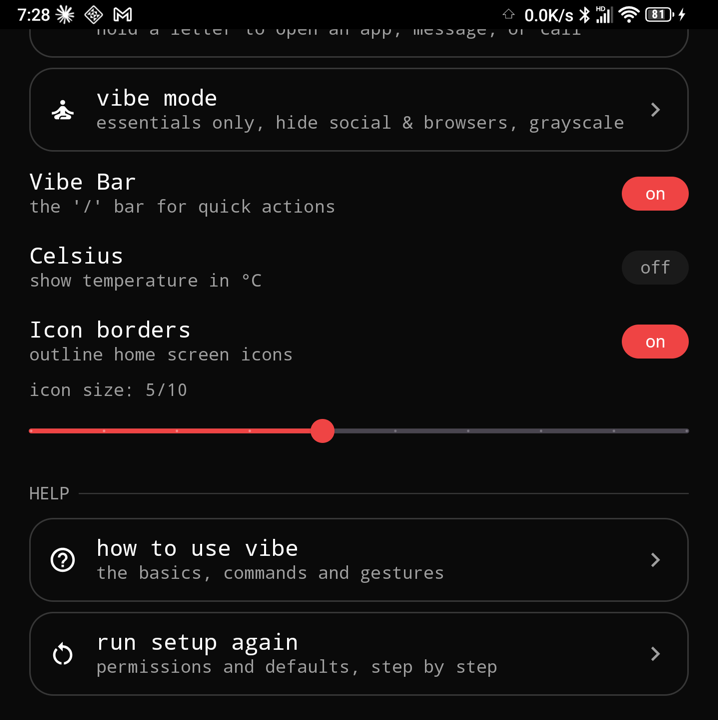
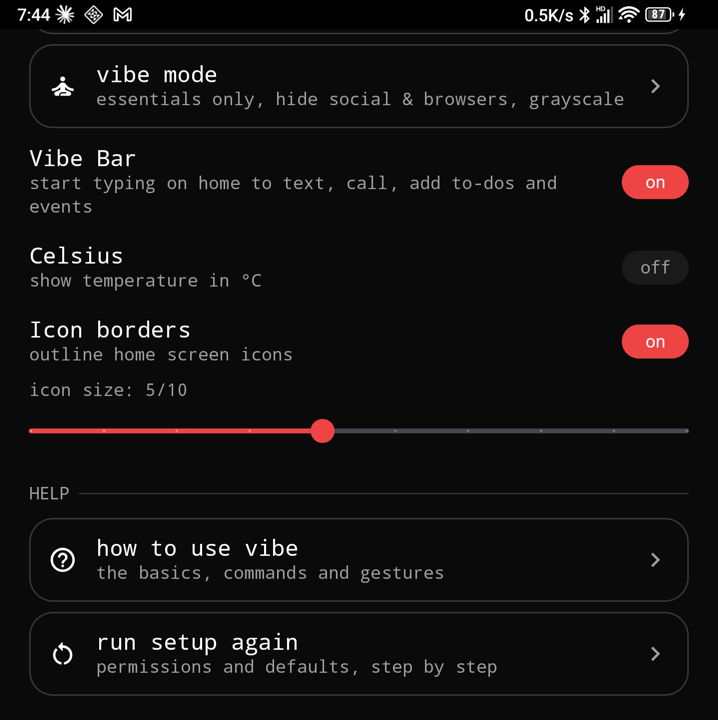
Let Back leave the tour, fix setup title under the dots, update Vibe Bar subtitle
- Back on the first card of the tour, or of setup run again from
  Settings, now closes it. First-run setup still can't be backed out of.
- With the keyboard open, a step's title no longer scrolls up against
  the step dots.
- The Vibe Bar switch in Settings no longer mentions the old '/' bar.
- Retook the Settings screenshot to show the new subtitle.

diff --git a/app/src/main/java/com/vibelauncher/app/ui/setup/SetupScreen.kt b/app/src/main/java/com/vibelauncher/app/ui/setup/SetupScreen.kt
@@ -43,6 +43,7 @@ import androidx.compose.runtime.rememberUpdatedState
 import androidx.compose.ui.Alignment
 import androidx.compose.ui.Modifier
 import androidx.compose.ui.draw.alpha
+import androidx.compose.ui.draw.clipToBounds
 import androidx.compose.ui.platform.LocalLifecycleOwner
 import androidx.compose.ui.text.TextStyle
 import androidx.compose.ui.text.font.FontWeight
@@ -79,9 +80,8 @@ fun SetupScreen(viewModel: SetupViewModel, onFinished: () -> Unit) {
         onDispose { lifecycleOwner.lifecycle.removeObserver(observer) }
     }
 
-    // Back steps backwards through setup; on the first step there's nowhere to go, and
-    // leaving setup that way would just bring it back on the next launch.
-    BackHandler { viewModel.back() }
+    // Back steps backwards; on the first step it leaves, unless this is first-run setup.
+    BackHandler { viewModel.back(onLeave = onFinished) }
 
     MaterialTheme(typography = settingsTypography()) {
         Column(
@@ -99,7 +99,9 @@ fun SetupScreen(viewModel: SetupViewModel, onFinished: () -> Unit) {
                     (slideInHorizontally { if (forward) it / 3 else -it / 3 } + fadeIn()) togetherWith
                         (slideOutHorizontally { if (forward) -it / 3 else it / 3 } + fadeOut())
                 },
-                modifier = Modifier.weight(1f),
+                // With the keyboard open a step scrolls up to keep its text field in view; the
+                // gap keeps the edge its title scrolls under clear of the step dots.
+                modifier = Modifier.weight(1f).padding(top = 16.dp).clipToBounds(),
                 label = "setup step"
             ) { index ->
                 val step = uiState.steps[index]
@@ -131,7 +133,7 @@ fun SetupScreen(viewModel: SetupViewModel, onFinished: () -> Unit) {
             SetupFooter(
                 showBack = !uiState.isFirst,
                 nextLabel = nextLabelFor(uiState),
-                onBack = { viewModel.back() },
+                onBack = { viewModel.back(onLeave = onFinished) },
                 onNext = {
                     if (uiState.step == SetupStep.DONE) viewModel.finish(onFinished) else viewModel.next()
                 }
@@ -219,7 +221,7 @@ internal fun StepLayout(label: String, title: String, content: @Composable Colum
         modifier = Modifier
             .fillMaxSize()
             .verticalScroll(rememberScrollState())
-            .padding(top = 28.dp),
+            .padding(top = 12.dp),
         verticalArrangement = Arrangement.spacedBy(14.dp)
     ) {
         Text(label, color = LocalAccentColor.current, style = MaterialTheme.typography.labelSmall)

diff --git a/app/src/main/java/com/vibelauncher/app/ui/setup/SetupViewModel.kt b/app/src/main/java/com/vibelauncher/app/ui/setup/SetupViewModel.kt
@@ -17,6 +17,7 @@ import kotlinx.coroutines.flow.MutableStateFlow
 import kotlinx.coroutines.flow.SharingStarted
 import kotlinx.coroutines.flow.StateFlow
 import kotlinx.coroutines.flow.combine
+import kotlinx.coroutines.flow.first
 import kotlinx.coroutines.flow.stateIn
 import kotlinx.coroutines.launch
 
@@ -126,11 +127,17 @@ class SetupViewModel(
         if (index.value < steps.lastIndex) index.value += 1
     }
 
-    /** False when already on the first step, so the caller knows Back had nowhere to go. */
-    fun back(): Boolean {
-        if (index.value == 0) return false
-        index.value -= 1
-        return true
+    /** Steps backwards. On the first step Back leaves - the tour, or setup someone already
+     *  finished once, can always be closed - except during first-run setup, where leaving
+     *  would just bring it back on the next launch. */
+    fun back(onLeave: () -> Unit) {
+        if (index.value > 0) {
+            index.value -= 1
+            return
+        }
+        viewModelScope.launch {
+            if (mode == SetupMode.TOUR || !settingsRepository.needsFirstRunSetup.first()) onLeave()
+        }
     }
 
     fun refreshAccess() {

diff --git a/app/src/main/java/com/vibelauncher/app/ui/settings/SettingsScreen.kt b/app/src/main/java/com/vibelauncher/app/ui/settings/SettingsScreen.kt
@@ -125,7 +125,7 @@ fun SettingsScreen(
 
             ToggleRow(
                 title = "Vibe Bar",
-                subtitle = "the '/' bar for quick actions",
+                subtitle = "start typing on home to text, call, add to-dos and events",
                 checked = uiState.vibeBarEnabled,
                 onCheckedChange = viewModel::setVibeBarEnabled
             )
